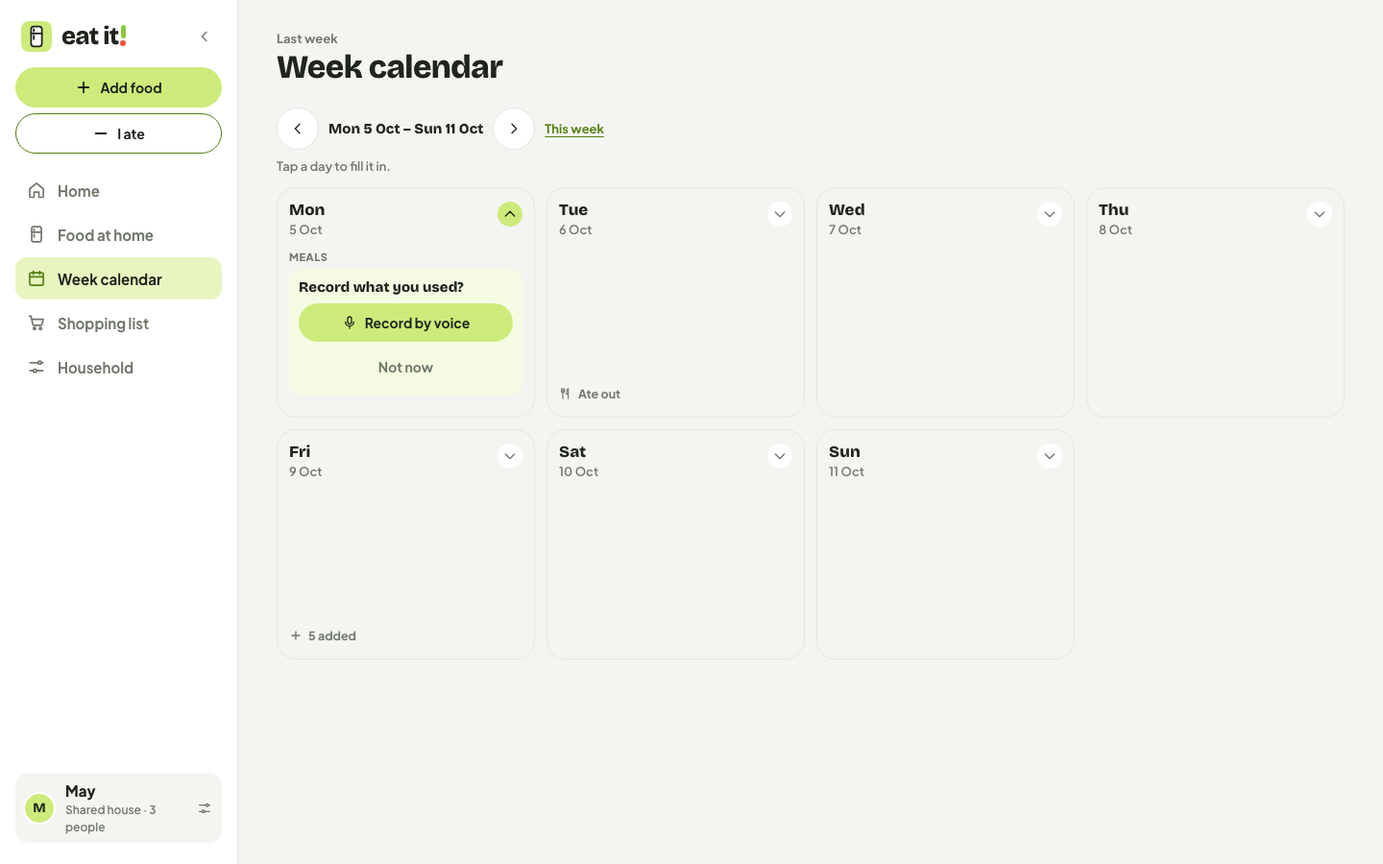
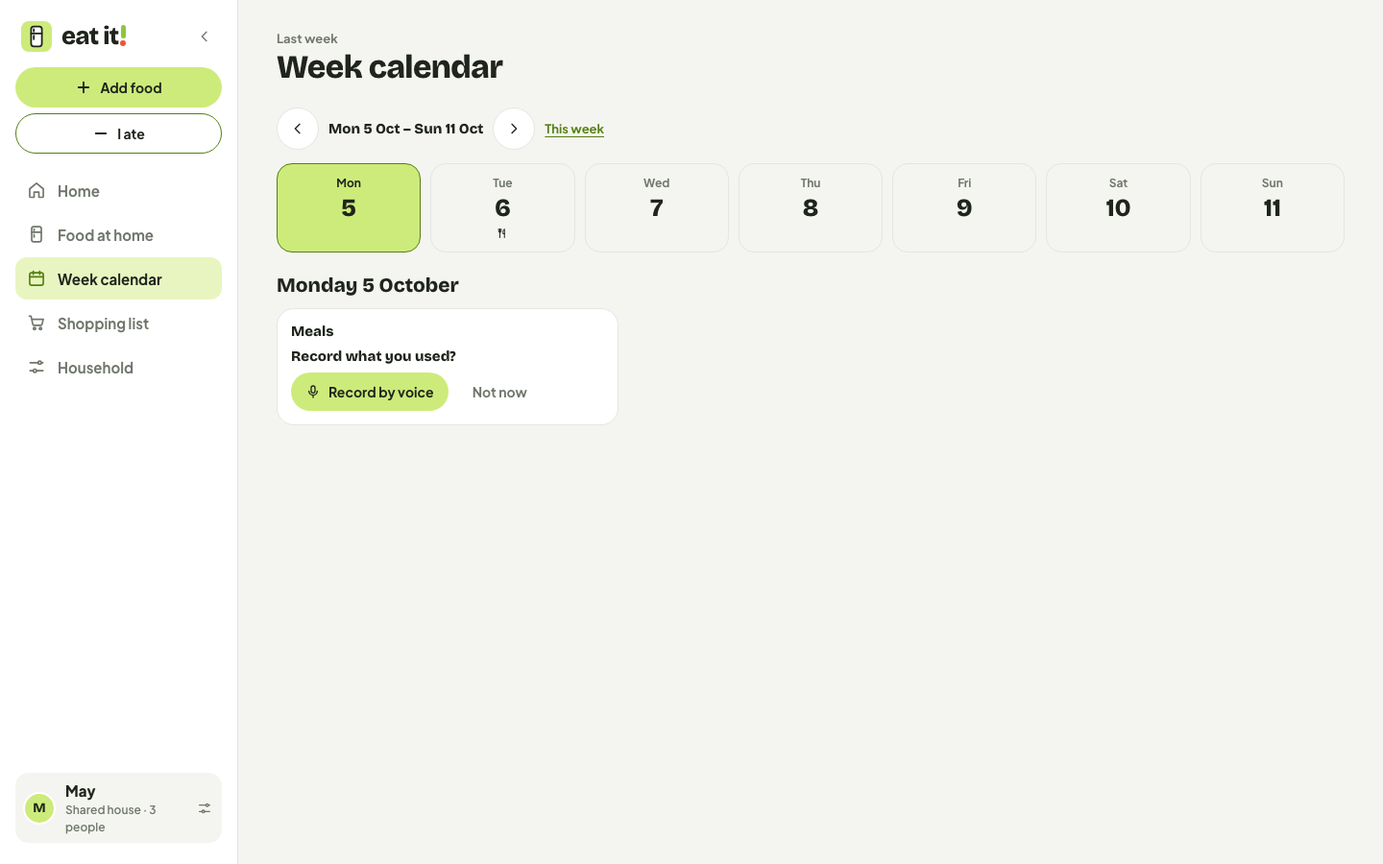
Week calendar redesign: a strip of seven days, the chosen day below
The seven narrow cards were cramped on wide screens (150 px columns, the
"eating out" title wrapping into three uppercase lines), uneven in height and
busy with colours, and on a phone they scrolled sideways.
- Top: seven equal day chips (weekday, date, small marks: coloured dots for
  food dated that day, a fork for eating out, a tick for recorded, an amber
  corner for the last day at home before days out). Fits a phone, no sideways
  scrolling.
- Below: the chosen day (today by default) as plain cards with room: the
  reminder before days out, Meals, Dates this day (with the real date tag),
  Past the date, Freezer, Added. Coming up sits beside it on a computer.
- Removes the sideways-strip scroll code and the old card CSS.
Screenshots and README updated.

Code written with Claude Code (AI-assisted) and reviewed by Jiakuo.

diff --git a/app/js/views/week.js b/app/js/views/week.js
@@ -1,19 +1,17 @@
-// Week calendar: seven day cards, like the owner's personal "week" page, each saying what to watch
-// for in food that day — what to eat by, which freezer bag gets old — plus a one-line meal status.
-// Tapping a day opens its card in place: for today or an earlier day, "Ate at home that day?" and, if
-// yes, record what was used by voice (earlier days can be filled in later); for a day still to come,
-// "Eating at home?", so a day out can be planned ahead.
+// Week calendar: a strip of seven small days (what's dated, eating out, recorded), and the chosen day
+// opened below it: the meal check (today / earlier: "Ate at home?" → record by voice; ahead: "Eating
+// at home?", so days out can be planned), the food dated that day, the freezer, and before days out
+// what to use or freeze. Coming up sits beside it on a computer.
 
-import { foodName, shortName } from '../foods.js';
-import { modeOf, nudge, bagNumber, frozenLots, placeOf, mealAnswer, mealSkipped, awayRuns } from '../state.js';
-import { addDays, daysBetween, weekday, dayMonth, fmtDay, longDay, dateTag, lastGood, frozenWeeks } from '../dates.js';
+import { foodName, shortName, canFreeze } from '../foods.js';
+import { modeOf, nudge, bagNumber, frozenLots, placeOf, mealAnswer, awayRuns, hasFreezer } from '../state.js';
+import { addDays, daysBetween, weekday, fmtDay, longDay, dateTag, lastGood, frozenWeeks } from '../dates.js';
 import { ICON } from '../icons.js';
 import { esc, pic, pageHead, secHead } from '../ui.js';
 import { phoneTitle, mealLog, mealCheck, awayTitle } from './parts.js';
 
 const monday = (day) => addDays(day, -((new Date(`${day}T00:00:00Z`).getUTCDay() + 6) % 7));
 
-const KIND_WORD = { use_by: 'use by', best_before: 'best before', est: 'our guess' };
 
 // Food in stock whose date falls on a day (not in the freezer, not a housemate's).
 function dueOn(s, day) {
@@ -48,62 +46,50 @@ export function weekDays(app, offset = 0) {
   });
 }
 
-// What to watch for that day: overdue food (today), what to eat by, the freezer.
-function foodBlocks(app, d) {
-  const today = app.store.today;
+// ---------- the strip: seven small days ----------
+
+// A day as a small chip: weekday, date, and marks for what's on (food dated that day, eating out,
+// recorded). An amber corner = the last day at home before days out.
+function dayChip(app, d, sel) {
   const s = app.store.state;
-  const blocks = [];
-  const item = (l) => { const t = dateTag(l.date, today); return `<li><button class="wk-food" data-act="lot" data-arg="${esc(l.id)}">${pic(l.food, { size: 26, lot: l })}<span class="wf-text"><b>${esc(foodName(l.food, 2, l))}</b><small class="d-${t.kind}">${esc(KIND_WORD[l.date.kind] || '')}</small></span></button></li>`; };
-  if (d.away) blocks.push(`<div class="block away-b"><span class="k">${esc(awayTitle(d.away, today))}</span><small class="away-sub">Use or freeze these ${d.isToday ? 'today' : 'this day'}</small><ul>${d.away.lots.map(item).join('')}</ul></div>`);
-  if (d.overdue.length) blocks.push(`<div class="block warn"><span class="k">Past the date</span><ul>${d.overdue.map(item).join('')}</ul></div>`);
-  if (d.due.length) blocks.push(`<div class="block"><span class="k">Dates this day</span><ul>${d.due.map(item).join('')}</ul></div>`);
-  if (d.thaw) blocks.push(`<div class="block frost"><span class="k">Freezer</span><div class="wk-line">${pic(d.thaw.food, { bag: true, size: 26, lot: d.thaw })}<span class="wf-text"><b>${esc(shortName(d.thaw.food, d.thaw))}, bag ${bagNumber(s, d.thaw)}</b><small>Frozen ${frozenWeeks(d.thaw.date.on, today)} weeks</small></span></div><button class="chip-btn on" data-act="thaw" data-arg="${esc(d.thaw.id)}">Thaw tonight</button></div>`);
-  else if (d.freezer.length) blocks.push(`<div class="block frost"><span class="k">Freezer</span><ul>${d.freezer.map((l) => `<li class="wk-line">${pic(l.food, { bag: true, size: 26, lot: l })}<span class="wf-text"><b>${esc(shortName(l.food, l))}, bag ${bagNumber(s, l)}</b><small>Frozen ${daysBetween(l.date.on, d.date) / 7} weeks</small></span></li>`).join('')}</ul></div>`);
-  if (!d.past && !blocks.length) blocks.push('<div class="block"><span class="k">Dates this day</span><p class="muted">Nothing due</p></div>');
-  return blocks;
+  const dots = [...d.overdue, ...d.due].slice(0, 3).map((l) => `<i class="c-dot ${l.date.kind}"></i>`).join('');
+  const out = mealAnswer(s, d.date) === 'out';
+  const marks = `${dots}${out ? ICON.fork({ size: 12 }) : ''}${!out && d.ate.length ? ICON.check({ size: 12, stroke: 2.8 }) : ''}`;
+  const says = [d.due.length + d.overdue.length ? `${d.due.length + d.overdue.length} dated` : '', out ? 'eating out' : '', d.ate.length ? 'recorded' : '', d.away ? 'use or freeze before days out' : ''].filter(Boolean).join(', ');
+  return `<button class="wk-chip${d.isToday ? ' today' : ''}${d.past ? ' past' : ''}${sel ? ' sel' : ''}${d.away ? ' prep' : ''}" data-act="day" data-arg="${d.date}" aria-pressed="${sel}" aria-label="${esc(longDay(d.date))}${says ? `: ${esc(says)}` : ''}">
+    <span class="c-wd">${esc(weekday(d.date))}</span><span class="c-d">${esc(d.date.slice(8).replace(/^0/, ''))}</span><span class="c-marks">${marks}</span>
+  </button>`;
 }
 
-// One line on the card once the day has an answer; nothing while it hasn't.
-function mealStatus(s, d) {
-  const ans = mealAnswer(s, d.date);
-  if (!d.past && !d.isToday) {
-    if (ans === 'out') return `<p class="wk-meal out">${ICON.fork({ size: 14 })}Eating out</p>`;
-    if (ans === 'home') return `<p class="wk-meal">${ICON.home({ size: 14 })}Eating at home</p>`;
-    return '';
-  }
-  if (ans === 'out') return `<p class="wk-meal">${ICON.fork({ size: 14 })}Ate out</p>`;
-  if (d.ate.length) return `<p class="wk-meal done">${ICON.check({ size: 14, stroke: 2.6 })}Recorded · ${d.ate.length}</p>`;
-  if (ans === 'home') return `<p class="wk-meal">${ICON.home({ size: 14 })}${mealSkipped(s, d.date) ? 'At home · not recorded' : 'At home'}</p>`;
-  return '';
-}
+// ---------- the chosen day ----------
 
-function dayCard(app, d) {
-  const s = app.store.state;
-  const blocks = foodBlocks(app, d);
-  const open = app.ui.weekOpen === d.date;
+function dayDetail(app, d) {
+  const s = app.store.state, today = app.store.today;
   const future = !d.past && !d.isToday;
-  // Opened in place: the meal check ("Ate at home?" → record by voice) shows inside the card.
-  if (open) {
-    const early = future && d.out && d.due.length ? '<p class="meal-note">Food due that day: have it the day before.</p>' : '';
-    blocks.push(`<div class="block day-more"><span class="k">Meals</span>${mealCheck(app, d.date)}${early}</div>`);
-    if (d.added) blocks.push(`<div class="block"><span class="k">Added</span><p>${d.added} item${d.added > 1 ? 's' : ''}</p></div>`);
-  }
-  const added = !future && d.added ? `<p class="wk-meal">${ICON.plus({ size: 14, stroke: 2.4 })}${d.added} added</p>` : '';
-  const foot = open ? '' : mealStatus(s, d) + added;
-  const title = `<h2>${esc(weekday(d.date))}${d.isToday ? ' · Today' : ''}</h2><span class="date">${esc(dayMonth(d.date))}</span>`;
-  const head = `<button class="day-head" data-act="day" data-arg="${d.date}" aria-expanded="${open}"><span>${title}</span><span class="chev" aria-hidden="true">${ICON.next({ size: 16 })}</span></button>`;
-  // A closed card opens from anywhere on it; an open one only closes from its head.
-  return `<article class="day${d.isToday ? ' today' : ''}${d.past ? ' past' : ''}${open ? ' open' : ' can-open'}" id="day-${d.date}"${!open ? ` data-act="day" data-arg="${d.date}"` : ''}>
-    ${head}
-    ${blocks.join('')}
-    ${foot ? `<div class="wk-foot">${foot}</div>` : ''}
-  </article>`;
+  const food = (l, right = '') => { const t = dateTag(l.date, today); return `<li><button class="wd-food" data-act="lot" data-arg="${esc(l.id)}">${pic(l.food, { size: 30, lot: l })}<b>${esc(foodName(l.food, 2, l))}</b><span class="tag tag-${t.kind}">${esc(t.text)}</span></button>${right}</li>`; };
+  const freeze = (l) => (hasFreezer(s) && canFreeze(l.food) ? `<button class="chip-btn" data-act="freeze" data-arg="${esc(l.id)}">${ICON.snow({ size: 14 })}Freeze</button>` : '');
+  const cards = [];
+  if (d.away) cards.push(`<section class="wd-card away wide"><h3>${esc(awayTitle(d.away, today))}</h3><p class="wd-sub">Use or freeze these ${d.isToday ? 'today' : 'this day'}.</p><ul class="wd-list">${d.away.lots.map((l) => food(l, freeze(l))).join('')}</ul></section>`);
+  const note = future && d.out && d.due.length ? '<p class="meal-note">Food due this day: have it the day before.</p>' : '';
+  cards.push(`<section class="wd-card"><h3>Meals</h3>${mealCheck(app, d.date)}${note}</section>`);
+  if (d.overdue.length) cards.push(`<section class="wd-card warn"><h3>Past the date</h3><ul class="wd-list">${d.overdue.map((l) => food(l)).join('')}</ul></section>`);
+  if (d.due.length) cards.push(`<section class="wd-card"><h3>Dates this day</h3><ul class="wd-list">${d.due.map((l) => food(l)).join('')}</ul></section>`);
+  else if (!d.past && !d.overdue.length) cards.push('<section class="wd-card"><h3>Dates this day</h3><p class="wd-sub">Nothing due.</p></section>');
+  if (d.thaw) cards.push(`<section class="wd-card frost"><h3>Freezer</h3><div class="wd-food static">${pic(d.thaw.food, { bag: true, size: 30, lot: d.thaw })}<b>${esc(shortName(d.thaw.food, d.thaw))}, bag ${bagNumber(s, d.thaw)}</b><span class="wd-sub">Frozen ${frozenWeeks(d.thaw.date.on, today)} weeks</span></div><button class="btn btn-primary sm" data-act="thaw" data-arg="${esc(d.thaw.id)}">${ICON.snow({ size: 16 })}Thaw tonight</button></section>`);
+  else if (d.freezer.length) cards.push(`<section class="wd-card frost"><h3>Freezer</h3><ul class="wd-list">${d.freezer.map((l) => `<li><div class="wd-food static">${pic(l.food, { bag: true, size: 30, lot: l })}<b>${esc(shortName(l.food, l))}, bag ${bagNumber(s, l)}</b><span class="wd-sub">Frozen ${daysBetween(l.date.on, d.date) / 7} weeks</span></div></li>`).join('')}</ul></section>`);
+  if ((d.past || d.isToday) && d.added) cards.push(`<section class="wd-card"><h3>Added</h3><p class="wd-sub">${d.added} item${d.added > 1 ? 's' : ''} went in.</p></section>`);
+  return `<section class="wk-detail" aria-label="${esc(longDay(d.date))}">
+    <header class="wd-head"><h2>${esc(longDay(d.date))}</h2>${d.isToday ? '<span class="wd-pill">Today</span>' : ''}${d.out ? `<span class="wd-pill out">${ICON.fork({ size: 13 })}Eating out</span>` : ''}</header>
+    <div class="wd-grid">${cards.join('')}</div>
+  </section>`;
 }
 
 export function weekPage(app) {
   const s = app.store.state, today = app.store.today;
   const off = app.ui.weekOffset || 0;
   const days = weekDays(app, off);
+  // The chosen day: the one tapped, else today, else the first day of the week shown.
+  const sel = days.find((d) => d.date === app.ui.weekOpen) || days.find((d) => d.isToday) || days[0];
   const end = addDays(days[0].date, 6);
   // Further ahead: everything that falls due in the next three weeks after this week.
   const later = [...s.lots.values()].filter((l) => l.owner !== 'housemate' && placeOf(s, l.place)?.kind !== 'frozen' && lastGood(l.date) && lastGood(l.date) > end && daysBetween(today, lastGood(l.date)) <= 28)
@@ -113,9 +99,11 @@ export function weekPage(app) {
     ${phoneTitle(app, 'Week calendar')}
     <div class="desk-only">${pageHead(off === 0 ? 'This week' : off === 1 ? 'Next week' : off === -1 ? 'Last week' : off > 0 ? `In ${off} weeks` : `${-off} weeks ago`, 'Week calendar')}</div>
     ${nav}
-    <p class="wk-hint">Tap a day to fill it in.</p>
-    <div class="days" tabindex="0" aria-label="Seven days">${days.map((d) => dayCard(app, d)).join('')}</div>
-    ${later.length && off >= 0 ? `<section>${secHead('Coming up')}<ul class="rows">${later.map((l) => { const t = dateTag(l.date, today); const n = daysBetween(today, lastGood(l.date)); return `<li><button class="row" data-act="lot" data-arg="${esc(l.id)}">${pic(l.food, { size: 32, lot: l })}<span class="r-main"><b>${esc(foodName(l.food, 2, l))}</b><small>${esc(n === 1 ? 'tomorrow' : `in ${n} days`)} · ${esc(fmtDay(lastGood(l.date)))}</small></span><span class="tag tag-${t.kind}">${esc(t.text)}</span></button></li>`; }).join('')}</ul></section>` : ''}
+    <div class="wk-strip" role="group" aria-label="Seven days">${days.map((d) => dayChip(app, d, d === sel)).join('')}</div>
+    <div class="wk-body">
+    ${dayDetail(app, sel)}
+    ${later.length && off >= 0 ? `<section class="wk-later">${secHead('Coming up')}<ul class="rows">${later.map((l) => { const t = dateTag(l.date, today); const n = daysBetween(today, lastGood(l.date)); return `<li><button class="row" data-act="lot" data-arg="${esc(l.id)}">${pic(l.food, { size: 32, lot: l })}<span class="r-main"><b>${esc(foodName(l.food, 2, l))}</b><small>${esc(n === 1 ? 'tomorrow' : `in ${n} days`)} · ${esc(fmtDay(lastGood(l.date)))}</small></span><span class="tag tag-${t.kind}">${esc(t.text)}</span></button></li>`; }).join('')}</ul></section>` : ''}
+    </div>
   </div>`;
 }
 

diff --git a/app/styles.css b/app/styles.css
@@ -239,9 +239,6 @@ input[type=checkbox] { width: 20px; height: 20px; accent-color: var(--leaf-deep)
 .away-food > span { display: flex; flex-direction: column; align-items: flex-start; gap: 3px; min-width: 0; }
 .away-food b { font: 700 14px var(--font-body); }
 .away .link { align-self: flex-start; }
-.block.away-b { width: 100%; padding: 10px; border-radius: 14px; background: var(--amber-soft); }
-.block.away-b .k { color: var(--amber-text); }
-.away-sub { font-size: 12px; color: var(--amber-text); margin-top: -4px; }
 .guide { display: flex; flex-direction: column; gap: 12px; margin-bottom: 14px; background: var(--wash); border-color: transparent; }
 .guide ul { list-style: none; margin: 0; padding: 0; display: flex; flex-direction: column; gap: 10px; }
 .guide li { display: flex; align-items: center; gap: 12px; }
@@ -501,26 +498,6 @@ input[type=checkbox] { width: 20px; height: 20px; accent-color: var(--leaf-deep)
 
 /* ---------- week calendar (like the personal system's week page) ---------- */
 .wk-nav { display: flex; align-items: center; gap: 10px; flex-wrap: wrap; margin: 0 16px 12px; font: 800 15px var(--font-title); }
-.days { display: flex; align-items: flex-start; gap: 10px; overflow-x: auto; scroll-snap-type: x mandatory; padding: 2px 16px 16px; scrollbar-width: none; }
-.days::-webkit-scrollbar { display: none; }
-.day { flex: 0 0 78%; min-width: 0; scroll-snap-align: center; display: flex; flex-direction: column; gap: 12px; padding: 14px; border-radius: 20px; background: var(--white); border: 1.5px solid var(--line); }
-.day.today { border-color: var(--leaf-deep); box-shadow: inset 0 0 0 1px var(--leaf-deep); }
-.day.past { background: var(--mist); }
-.day h2 { font: 800 18px/1.1 var(--font-title); }
-.day .date { margin-top: -10px; color: var(--stone); font-size: 13px; }
-.block { display: flex; flex-direction: column; align-items: flex-start; gap: 6px; min-width: 0; }
-.block .k { font: 800 11px var(--font-body); letter-spacing: .05em; text-transform: uppercase; color: var(--stone); }
-.block ul { list-style: none; margin: 0; padding: 0; display: flex; flex-direction: column; gap: 2px; width: 100%; }
-.block ul.plain { gap: 4px; }
-.block ul.plain li { font-size: 13px; line-height: 1.35; }
-.block p { font-size: 13px; display: flex; align-items: center; gap: 6px; }
-.block.warn, .block.frost { width: 100%; padding: 10px; border-radius: 14px; }
-.block.warn { background: var(--tomato-soft); }
-.block.frost { background: var(--frost); }
-.wk-food, .wk-line { display: flex; align-items: center; gap: 8px; width: 100%; min-width: 0; text-align: left; }
-.wk-food { padding: 5px 6px; margin: 0 -6px; border: 0; border-radius: 10px; background: none; width: calc(100% + 12px); }
-.wk-food:hover { background: var(--mist); }
-.wk-food .pic, .wk-line .pic { flex: none; }
 .wf-text { display: flex; flex-direction: column; min-width: 0; }
 .wf-text b { font: 700 13px/1.25 var(--font-body); overflow-wrap: break-word; hyphens: auto; }
 .wf-text small { font: 700 11px/1.3 var(--font-body); color: var(--stone); }
@@ -531,25 +508,50 @@ input[type=checkbox] { width: 20px; height: 20px; accent-color: var(--leaf-deep)
 .meal .btn-row { margin-top: 2px; align-self: stretch; }
 .meal .btn { white-space: nowrap; }
 
-.day { transition: border-color .15s; }
-.day.can-open { cursor: pointer; }
-.day.can-open:hover { border-color: var(--leaf-deep); }
-.day.open { cursor: default; }
-.day-head { display: flex; justify-content: space-between; align-items: flex-start; gap: 8px; width: 100%; padding: 0; border: 0; background: none; color: inherit; text-align: left; font: inherit; }
-button.day-head { cursor: pointer; }
-.day-head > span:first-child { display: flex; flex-direction: column; gap: 2px; }
-.day-head .date { margin-top: 0; }
 .chev { display: grid; place-items: center; width: 26px; height: 26px; border-radius: 50%; background: var(--mist); color: var(--stone); transform: rotate(90deg); transition: transform .15s; flex: none; }
-.day.past .chev { background: var(--white); }
-.day.open .chev { transform: rotate(-90deg); background: var(--leaf); color: var(--ink); }
-.day-more { width: 100%; }
-.day .meal .btn-row .btn { flex: 1; padding: 0 10px; }
-.wk-hint { margin: -4px 16px 10px; font-size: 13px; color: var(--stone); }
-.wk-foot { margin-top: auto; display: flex; flex-direction: column; gap: 4px; }
-.wk-meal { display: flex; align-items: center; gap: 6px; font-size: 12.5px; font-weight: 700; color: var(--stone); }
-.wk-meal.done { color: var(--leaf-deep); }
-.wk-meal.out { color: var(--ink); }
 .meal-note { font-size: 12.5px; color: var(--stone); }
+
+/* ---------- week calendar: a strip of seven days, the chosen day opened below ---------- */
+.wk-strip { display: grid; grid-template-columns: repeat(7, minmax(0, 1fr)); gap: 6px; margin: 0 16px 16px; }
+.wk-chip { position: relative; display: flex; flex-direction: column; align-items: center; gap: 3px; min-width: 0; min-height: 74px; padding: 8px 2px 8px; border: 1.5px solid var(--line); border-radius: 16px; background: var(--white); color: var(--ink); cursor: pointer; transition: border-color .15s, background .15s; }
+.wk-chip:hover { border-color: var(--leaf-deep); }
+.wk-chip.past { background: var(--mist); }
+.wk-chip.sel { background: var(--leaf); border-color: var(--leaf-deep); }
+.wk-chip .c-wd { font: 700 11px var(--font-body); color: var(--stone); white-space: nowrap; }
+.wk-chip.today .c-wd { color: var(--leaf-deep); font-weight: 800; }
+.wk-chip.sel .c-wd { color: var(--ink); }
+.wk-chip .c-d { font: 800 20px/1.1 var(--font-title); }
+.wk-chip .c-marks { display: flex; align-items: center; justify-content: center; gap: 3px; min-height: 14px; color: var(--ink); }
+.c-dot { width: 7px; height: 7px; border-radius: 50%; background: var(--stone); }
+.c-dot.use_by { background: var(--tomato); }
+.c-dot.best_before { background: var(--amber); }
+.wk-chip.prep::after { content: ''; position: absolute; top: 4px; right: 4px; width: 7px; height: 7px; border-radius: 50%; background: var(--amber); box-shadow: 0 0 0 2px var(--white); }
+
+.wk-body { display: flex; flex-direction: column; gap: 22px; }
+.wk-detail { display: flex; flex-direction: column; gap: 12px; margin: 0 16px; }
+.wd-head { display: flex; align-items: center; flex-wrap: wrap; gap: 8px; }
+.wd-head h2 { font: 800 21px/1.15 var(--font-title); margin-right: 4px; }
+.wd-pill { display: inline-flex; align-items: center; gap: 5px; padding: 4px 10px; border-radius: 999px; background: var(--leaf-soft); font: 800 12px var(--font-body); }
+.wd-pill.out { background: var(--mist); }
+.wd-grid { display: grid; grid-template-columns: minmax(0, 1fr); gap: 10px; }
+.wd-card { display: flex; flex-direction: column; align-items: stretch; gap: 8px; min-width: 0; padding: 14px; border: 1.5px solid var(--line); border-radius: 18px; background: var(--white); }
+.wd-card h3 { font: 800 15px var(--font-title); }
+.wd-card.away { background: var(--amber-soft); border-color: var(--amber); }
+.wd-card.away h3, .wd-card.away .wd-sub { color: var(--amber-text); }
+.wd-card.warn { background: var(--tomato-soft); border-color: transparent; }
+.wd-card.frost { background: var(--frost); border-color: transparent; }
+.wd-card.frost .btn { align-self: flex-start; }
+.wd-card .meal.ask { padding: 0; background: none; }
+.wd-sub { font-size: 13px; color: var(--stone); }
+.wd-list { list-style: none; margin: 0; padding: 0; display: flex; flex-direction: column; gap: 2px; }
+.wd-list li { display: flex; align-items: center; gap: 8px; }
+.wd-food { display: flex; align-items: center; gap: 10px; flex: 1; min-width: 0; padding: 6px; margin: 0 -6px; border: 0; border-radius: 12px; background: none; color: var(--ink); text-align: left; cursor: pointer; }
+.wd-food:hover { background: color-mix(in srgb, var(--ink) 5%, transparent); }
+.wd-food.static { cursor: default; margin: 0; padding: 0; }
+.wd-food.static:hover { background: none; }
+.wd-food .pic { flex: none; }
+.wd-food b { flex: 1; min-width: 0; font: 700 14px var(--font-body); }
+.wk-later > .sec-h, .wk-later > .rows { margin-left: 16px; margin-right: 16px; }
 .card .link { margin-top: 6px; }
 
 /* ---------- shopping ---------- */
@@ -810,12 +812,18 @@ button.day-head { cursor: pointer; }
   .receipt { margin: 8px 0 0; padding: 18px 20px 12px; }
   .confirm { flex-direction: row; justify-content: space-between; align-items: center; padding: 22px 0 0; }
   .wk-nav { margin: 0 0 14px; }
-  .wk-hint { margin: -6px 0 12px; }
+  .wk-strip { margin: 0 0 22px; gap: 10px; }
+  .wk-chip { min-height: 92px; padding: 12px 4px; gap: 5px; }
+  .wk-chip .c-wd { font-size: 12px; }
+  .wk-chip .c-d { font-size: 26px; }
+  .wk-chip.prep::after { top: 8px; right: 8px; width: 9px; height: 9px; }
+  .wk-body { display: grid; grid-template-columns: minmax(0, 2fr) minmax(260px, 1fr); align-items: start; gap: 28px; }
+  .wk-detail { margin: 0; }
+  .wd-grid { grid-template-columns: repeat(2, minmax(0, 1fr)); align-items: start; }
+  .wd-card.wide { grid-column: 1 / -1; }
+  .wk-later > .sec-h, .wk-later > .rows { margin-left: 0; margin-right: 0; }
+  .wk-later .sec-h { margin-top: 0; }
   /* 4 + 3 on most screens, seven in a row only when the window is really wide. */
-  .days { display: grid; grid-template-columns: repeat(4, minmax(0, 1fr)); align-items: start; gap: 12px; padding: 0 0 18px; overflow: visible; }
-  .day .meal .btn-row { flex-direction: column; gap: 6px; }
-  .day { min-height: 240px; padding: 14px 12px; }
-  .day h2 { font-size: 17px; }
   .device-stage { display: flex !important; flex-direction: column; align-items: center; gap: 14px; }
   .device-stage > .screen { width: 390px; height: min(780px, calc(100vh - 120px)); min-height: 560px; min-height: 0; border-radius: 44px; overflow: hidden; box-shadow: 0 0 0 10px var(--white), 0 0 0 11px var(--line), 0 30px 60px -20px color-mix(in srgb, var(--ink) 30%, transparent); }
   .device-stage .ate-body.center { padding-bottom: 40px; }
@@ -834,14 +842,10 @@ button.day-head { cursor: pointer; }
   .guide .btn { align-self: center; }
 }
 
-@media (min-width: 1500px) {
-  .days { grid-template-columns: repeat(7, minmax(0, 1fr)); }
-}
-
 @media (min-width: 900px) and (max-width: 1180px) {
+  .wk-body { grid-template-columns: minmax(0, 1fr); }
   .cols2, .home .cols2 { grid-template-columns: minmax(0, 1fr); }
   .home-grid { grid-template-columns: minmax(0, 1fr); grid-template-areas: "eat" "today" "fridge"; grid-template-rows: auto; }
-  .days { grid-template-columns: repeat(3, minmax(0, 1fr)); }
   .rgrid { grid-template-columns: minmax(0, 1fr); }
   .src { position: static; }
 }

diff --git a/app/js/main.js b/app/js/main.js
@@ -71,9 +71,6 @@ function shell(content) {
 function render() {
   const scroller = root.querySelector('.main');
   const keep = scroller && root.dataset.route === app.route ? scroller.scrollTop : 0;
-  // Phone week strip scrolls sideways: keep where it was, so opening a day doesn't jump to Monday.
-  const strip0 = root.querySelector('.days');
-  const keepX = strip0 && root.dataset.route === app.route ? strip0.scrollLeft : null;
   const sheetWasOpen = !!root.querySelector('.sheet');
   const sheetTop = root.querySelector('.sheet')?.scrollTop || 0;
   const active = document.activeElement;
@@ -90,21 +87,8 @@ function render() {
     const sheet = app.ui.sheet && SHEETS[app.ui.sheet.type] ? SHEETS[app.ui.sheet.type](app) : '';
     html = shell(ROUTES[app.route](app)) + sheet;
   }
-  const enteringWeek = app.route === 'week' && root.dataset.route !== 'week';
   root.innerHTML = html;
   root.dataset.route = app.route;
-  // Phone: the seven days scroll sideways. Open on today, like the personal system's week page; after
-  // that stay put, and bring a day that was just opened fully into view.
-  const strip = root.querySelector('.days');
-  if (strip && strip.scrollWidth > strip.clientWidth) {
-    const center = (card) => { strip.scrollLeft = card.offsetLeft - strip.offsetLeft - (strip.clientWidth - card.offsetWidth) / 2; };
-    const todayCard = strip.querySelector('.day.today');
-    if (enteringWeek || app.ui.weekJump) { if (todayCard) center(todayCard); else strip.scrollLeft = 0; }
-    else if (keepX != null) strip.scrollLeft = keepX;
-    const focus = app.ui.weekFocus && document.getElementById(`day-${app.ui.weekFocus}`);
-    if (focus) center(focus);
-  }
-  if (app.route === 'week') { app.ui.weekJump = false; app.ui.weekFocus = null; }
   syncCamera();
   document.body.dataset.route = app.route;
   const next = root.querySelector('.main');
@@ -361,7 +345,7 @@ function ateBack() {
   const a = app.ui.ate;
   const day = a.day || app.store.today;
   if (a.from !== 'week' && !(a.day && a.day !== app.store.today)) return 'home';
-  app.ui.weekOpen = day; app.ui.weekFocus = day;
+  app.ui.weekOpen = day;
   return 'week';
 }
 
@@ -417,8 +401,8 @@ const ACT = {
   },
   // Record what was used on a given day (today or earlier) by voice.
   'ate-for'(day) { app.ui.ateDay = day === app.store.today ? null : day; app.ui.ateFrom = app.route; app.ui.sheet = null; go('ate'); },
-  // Open or close a day card in the week calendar.
-  day(d) { app.ui.weekOpen = app.ui.weekOpen === d ? null : d; app.ui.weekFocus = app.ui.weekOpen; render(); },
+  // Choose a day in the week calendar strip.
+  day(d) { app.ui.weekOpen = d; render(); },
   // "Ate at home that day?": home asks whether to record now, skip = "Not now", out = ate out,
   // none takes the answer back.
   async meal(arg) {
@@ -439,7 +423,7 @@ const ACT = {
     const e = await dispatch({ type: 'plan', day: today, mode: on ? 'out' : 'none' });
     toast(on ? 'Eating out tonight.' : 'Back to eating at home.', e.id);
   },
-  'week-move'(n) { app.ui.weekOffset = Number(n) === 0 ? 0 : (app.ui.weekOffset || 0) + Number(n); app.ui.weekJump = true; render(); },
+  'week-move'(n) { app.ui.weekOffset = Number(n) === 0 ? 0 : (app.ui.weekOffset || 0) + Number(n); render(); },
   async qty(arg) {
     const [lot, n] = split(arg);
     const name = lotName(lot);
